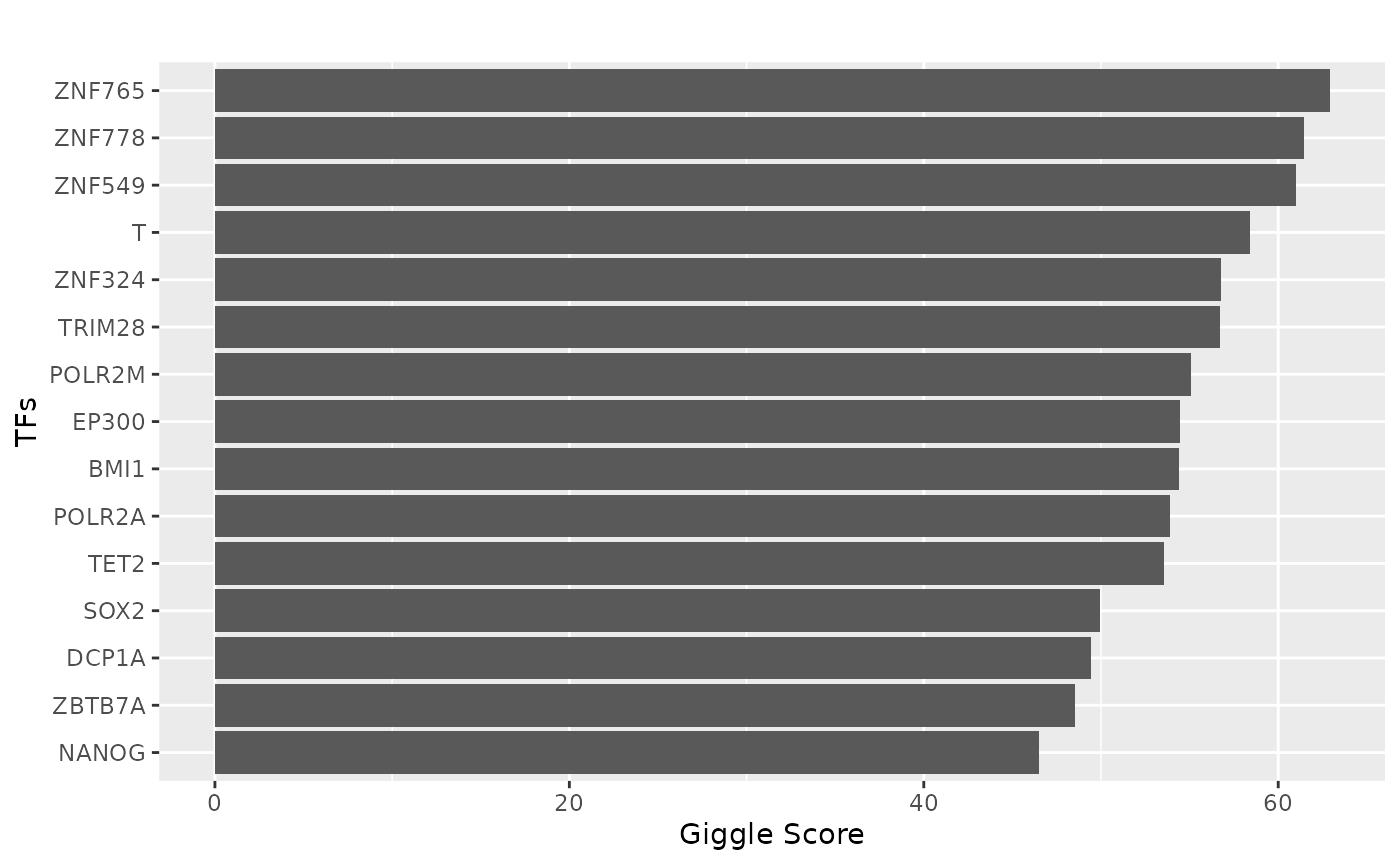
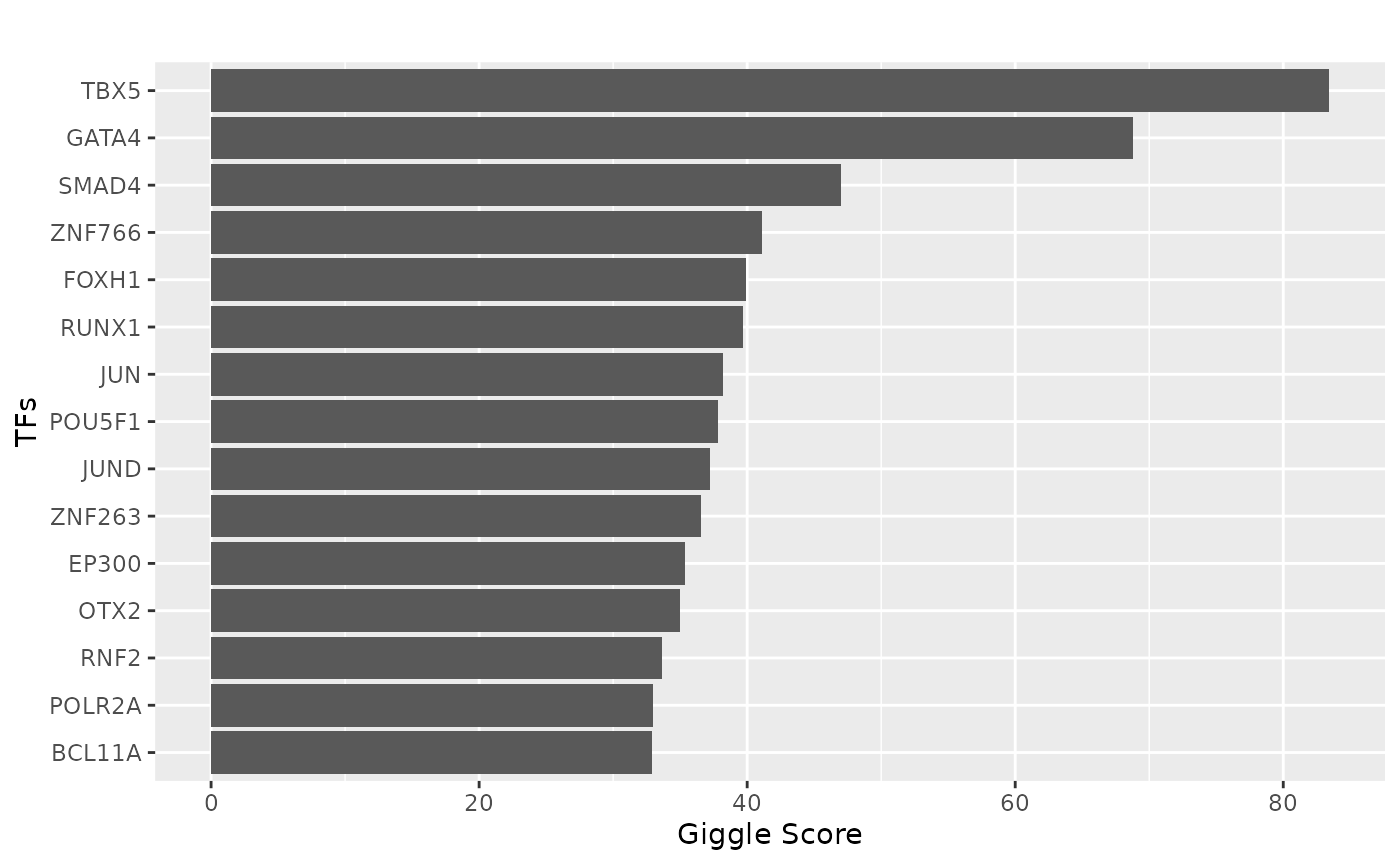
Deploying to gh-pages from @ changxinw/CompassR@00ad917db90771bec8af02808342f0accda522f8 🚀

diff --git a/articles/celltype_example.html b/articles/celltype_example.html
@@ -67,7 +67,8 @@
     
     
 <div class="sourceCode" id="cb1"><pre class="downlit sourceCode r">
-<code class="sourceCode R"><span><span class="kw"><a href="https://rdrr.io/r/base/library.html" class="external-link">library</a></span><span class="op">(</span><span class="va"><a href="https://changxinw.github.io/CompassR/">CompassR</a></span><span class="op">)</span></span>
+<code class="sourceCode R"><span><span class="co">### Load libraries</span></span>
+<span><span class="kw"><a href="https://rdrr.io/r/base/library.html" class="external-link">library</a></span><span class="op">(</span><span class="va"><a href="https://changxinw.github.io/CompassR/">CompassR</a></span><span class="op">)</span></span>
 <span><span class="kw"><a href="https://rdrr.io/r/base/library.html" class="external-link">library</a></span><span class="op">(</span><span class="va"><a href="https://dplyr.tidyverse.org" class="external-link">dplyr</a></span><span class="op">)</span></span>
 <span><span class="co">#&gt; </span></span>
 <span><span class="co">#&gt; Attaching package: 'dplyr'</span></span>
@@ -134,28 +135,35 @@
 <span><span class="co">#&gt; Loading required package: GenomicRanges</span></span>
 <span><span class="co">#&gt; Loading required package: GenomeInfoDb</span></span>
 <span><span class="co">#&gt; Loading required package: grid</span></span></code></pre></div>
+<p>Here, we will explore the celltype specific analysis of the gene HEY2
+in cardiomyocytes of atrium and ventricle.</p>
 <div class="sourceCode" id="cb2"><pre class="downlit sourceCode r">
-<code class="sourceCode R"><span><span class="co">### quick run example</span></span>
-<span><span class="co"># CompassR:::quick_example_compassr("HEY2")</span></span></code></pre></div>
+<code class="sourceCode R"><span><span class="co">### set up the gene and celltype</span></span>
+<span><span class="va">gene</span> <span class="op">=</span> <span class="st">"HEY2"</span></span>
+<span><span class="va">celltype</span> <span class="op">=</span> <span class="st">"Cardiomyocyte"</span></span></code></pre></div>
+<p>We will first query the expression and linkage data for the gene HEY2
+in cardiomyocytes from CompassDB.</p>
 <div class="sourceCode" id="cb3"><pre class="downlit sourceCode r">
-<code class="sourceCode R"><span><span class="va">gene</span> <span class="op">=</span> <span class="st">"HEY2"</span></span>
-<span><span class="va">celltype</span> <span class="op">=</span> <span class="st">"Cardiomyocyte"</span></span>
-<span><span class="va">expr_vec</span> <span class="op">=</span> <span class="fu"><a href="../reference/query_exprssion.html">query_exprssion</a></span><span class="op">(</span><span class="st">"hg38"</span>, <span class="va">gene</span>, celltype <span class="op">=</span> <span class="cn">TRUE</span><span class="op">)</span></span>
+<code class="sourceCode R"><span><span class="va">expr_vec</span> <span class="op">=</span> <span class="fu"><a href="../reference/query_exprssion.html">query_exprssion</a></span><span class="op">(</span><span class="st">"hg38"</span>, <span class="va">gene</span>, celltype <span class="op">=</span> <span class="cn">TRUE</span><span class="op">)</span></span>
 <span><span class="va">link_res</span> <span class="op">=</span> <span class="fu"><a href="../reference/query_linkage.html">query_linkage</a></span><span class="op">(</span><span class="st">"hg38"</span>, <span class="va">gene</span>, celltype <span class="op">=</span> <span class="cn">TRUE</span><span class="op">)</span></span>
 <span></span>
 <span><span class="va">link_df</span> <span class="op">=</span> <span class="va">link_res</span><span class="op">[[</span><span class="st">"linkage"</span><span class="op">]</span><span class="op">]</span></span>
 <span><span class="va">sample_df</span> <span class="op">=</span> <span class="va">link_res</span><span class="op">[[</span><span class="st">"samples"</span><span class="op">]</span><span class="op">]</span></span>
 <span></span>
+<span><span class="co">### filter the table, extract features use for plotting</span></span>
 <span><span class="va">sample_df</span> <span class="op">=</span> <span class="va">sample_df</span><span class="op">[</span><span class="va">sample_df</span><span class="op">$</span><span class="va">bio_source</span> <span class="op"><a href="https://rdrr.io/r/base/match.html" class="external-link">%in%</a></span> <span class="fu"><a href="https://rdrr.io/r/base/c.html" class="external-link">c</a></span><span class="op">(</span><span class="st">"Heart right ventricle"</span>, <span class="st">"Left cardiac atrium"</span><span class="op">)</span>, <span class="op">]</span></span>
 <span><span class="va">sample_df</span> <span class="op">=</span> <span class="va">sample_df</span><span class="op">[</span>, <span class="fu"><a href="https://rdrr.io/r/base/c.html" class="external-link">c</a></span><span class="op">(</span><span class="st">"sample_id"</span>, <span class="st">"bio_source"</span><span class="op">)</span><span class="op">]</span></span>
 <span><span class="fu"><a href="https://rdrr.io/r/base/colnames.html" class="external-link">colnames</a></span><span class="op">(</span><span class="va">sample_df</span><span class="op">)</span> <span class="op">=</span> <span class="fu"><a href="https://rdrr.io/r/base/c.html" class="external-link">c</a></span><span class="op">(</span><span class="st">"Sample"</span>, <span class="st">"Group"</span><span class="op">)</span></span>
 <span></span>
+<span><span class="co">### prepare linkage data</span></span>
 <span><span class="va">link_df</span> <span class="op">=</span> <span class="va">link_df</span><span class="op">[</span><span class="va">link_df</span><span class="op">$</span><span class="va">sample</span> <span class="op"><a href="https://rdrr.io/r/base/match.html" class="external-link">%in%</a></span> <span class="va">sample_df</span><span class="op">$</span><span class="va">Sample</span> <span class="op">&amp;</span> <span class="va">link_df</span><span class="op">$</span><span class="va">celltype</span> <span class="op">==</span> <span class="va">celltype</span>, <span class="op">]</span></span>
 <span><span class="co"># link_df[, c("sample", "gene", "peak", "zscore", "source", "celltype")]</span></span>
 <span></span>
+<span><span class="co">### prepare sample information</span></span>
 <span><span class="va">sample_df</span> <span class="op">=</span> <span class="va">sample_df</span><span class="op">[</span><span class="va">sample_df</span><span class="op">$</span><span class="va">Sample</span> <span class="op"><a href="https://rdrr.io/r/base/match.html" class="external-link">%in%</a></span> <span class="va">link_df</span><span class="op">$</span><span class="va">sample</span>, <span class="op">]</span></span>
 <span><span class="va">sample_df</span> <span class="op">=</span> <span class="va">sample_df</span><span class="op">[</span><span class="fu"><a href="https://rdrr.io/r/base/order.html" class="external-link">order</a></span><span class="op">(</span><span class="va">sample_df</span><span class="op">$</span><span class="va">Group</span><span class="op">)</span>, <span class="op">]</span></span>
 <span></span>
+<span><span class="co">### prepare gene expression</span></span>
 <span><span class="va">expr_df</span> <span class="op">=</span> <span class="fu"><a href="https://rdrr.io/r/base/data.frame.html" class="external-link">data.frame</a></span><span class="op">(</span><span class="fu"><a href="https://rdrr.io/r/base/t.html" class="external-link">t</a></span><span class="op">(</span><span class="va">expr_vec</span><span class="op">)</span><span class="op">[</span><span class="fu"><a href="https://rdrr.io/r/base/paste.html" class="external-link">paste0</a></span><span class="op">(</span><span class="va">sample_df</span><span class="op">$</span><span class="va">Sample</span>, <span class="st">"."</span>, <span class="va">sample_df</span><span class="op">$</span><span class="va">Sample</span>, <span class="st">".RNA."</span>, <span class="va">celltype</span><span class="op">)</span>, <span class="op">]</span><span class="op">)</span></span>
 <span><span class="fu"><a href="https://rdrr.io/r/base/colnames.html" class="external-link">colnames</a></span><span class="op">(</span><span class="va">expr_df</span><span class="op">)</span> <span class="op">=</span> <span class="fu"><a href="https://rdrr.io/r/base/c.html" class="external-link">c</a></span><span class="op">(</span><span class="st">"Gene"</span><span class="op">)</span></span>
 <span><span class="fu"><a href="https://rdrr.io/r/base/colnames.html" class="external-link">rownames</a></span><span class="op">(</span><span class="va">expr_df</span><span class="op">)</span> <span class="op">=</span> <span class="fu"><a href="https://rdrr.io/r/base/lapply.html" class="external-link">sapply</a></span><span class="op">(</span><span class="fu"><a href="https://rdrr.io/r/base/colnames.html" class="external-link">rownames</a></span><span class="op">(</span><span class="va">expr_df</span><span class="op">)</span>, <span class="kw">function</span><span class="op">(</span><span class="va">x</span><span class="op">)</span> <span class="op">{</span><span class="fu"><a href="https://rdrr.io/r/base/unlist.html" class="external-link">unlist</a></span><span class="op">(</span><span class="fu"><a href="https://rdrr.io/r/base/strsplit.html" class="external-link">strsplit</a></span><span class="op">(</span><span class="va">x</span>, <span class="st">"\\."</span><span class="op">)</span><span class="op">)</span><span class="op">[</span><span class="fl">1</span><span class="op">]</span><span class="op">}</span><span class="op">)</span></span>
@@ -164,6 +172,8 @@
 <span><span class="va">link_df</span><span class="op">$</span><span class="va">sample_id</span> <span class="op">=</span> <span class="va">link_df</span><span class="op">$</span><span class="va">sample</span></span>
 <span><span class="fu"><a href="https://rdrr.io/r/base/nrow.html" class="external-link">nrow</a></span><span class="op">(</span><span class="va">link_df</span><span class="op">)</span></span>
 <span><span class="co">#&gt; [1] 29</span></span></code></pre></div>
+<p>We will then plot the expression of the gene in the samples and the
+linkage data.</p>
 <div class="sourceCode" id="cb4"><pre class="downlit sourceCode r">
 <code class="sourceCode R"><span><span class="va">scheme</span> <span class="op">&lt;-</span> <span class="fu"><a href="https://rdrr.io/pkg/Gviz/man/settings.html" class="external-link">getScheme</a></span><span class="op">(</span><span class="op">)</span></span>
 <span><span class="va">scheme</span><span class="op">$</span><span class="va">GdObject</span><span class="op">$</span><span class="va">cex.axis</span> <span class="op">=</span> <span class="fl">1</span></span>
@@ -179,6 +189,8 @@
 <p><img src="celltype_example_files/figure-html/unnamed-chunk-4-1.png" width="700"><img src="celltype_example_files/figure-html/unnamed-chunk-4-2.png" width="700"></p>
 <div class="sourceCode" id="cb5"><pre class="downlit sourceCode r">
 <code class="sourceCode R"><span><span class="co"># dev.off()</span></span></code></pre></div>
+<p>TFBS analysis is performed on the CREs linked to the gene HEY2 in the
+cardiomyocytes.</p>
 <div class="sourceCode" id="cb6"><pre class="downlit sourceCode r">
 <code class="sourceCode R"><span><span class="co">### TFBS Analysis</span></span>
 <span><span class="va">track_plot</span> <span class="op">=</span> <span class="fu"><a href="../reference/plot_genome_track.html">plot_genome_track</a></span><span class="op">(</span><span class="va">link_df</span>, <span class="st">"HEY2"</span>, <span class="st">"hg38"</span>, <span class="va">sample_df</span><span class="op">$</span><span class="va">Sample</span><span class="op">)</span></span></code></pre></div>
@@ -188,17 +200,19 @@
 <span><span class="va">peaks</span><span class="op">$</span><span class="va">name</span> <span class="op">=</span> <span class="fu"><a href="https://rdrr.io/r/base/character.html" class="external-link">as.character</a></span><span class="op">(</span><span class="va">peaks</span><span class="op">$</span><span class="va">name</span><span class="op">)</span></span>
 <span><span class="va">peak_order</span> <span class="op">=</span> <span class="fu"><a href="../reference/make_peak_group.html">make_peak_group</a></span><span class="op">(</span><span class="va">link_df</span>, <span class="va">peaks</span>, <span class="va">sample_df</span><span class="op">)</span></span>
 <span></span>
-<span><span class="va">ht_peak_order</span> <span class="op">=</span> <span class="va">peak_order</span><span class="op">[</span><span class="va">peak_order</span><span class="op">[</span>, <span class="fl">1</span><span class="op">]</span> <span class="op">&gt;=</span> <span class="fl">0.5</span> <span class="op">&amp;</span> <span class="va">peak_order</span><span class="op">[</span>, <span class="fl">2</span><span class="op">]</span><span class="op">&lt;</span><span class="fl">0.5</span>, <span class="op">]</span></span>
+<span><span class="co">### Find CREs linked to HEY2 in ventricle but not in atrium</span></span>
+<span><span class="va">ht_peak_order</span> <span class="op">=</span> <span class="va">peak_order</span><span class="op">[</span><span class="va">peak_order</span><span class="op">[</span>, <span class="st">"Ventricle"</span><span class="op">]</span> <span class="op">&gt;=</span> <span class="fl">0.5</span> <span class="op">&amp;</span> <span class="va">peak_order</span><span class="op">[</span>, <span class="st">"Atrium"</span><span class="op">]</span><span class="op">&lt;</span><span class="fl">0.5</span>, <span class="op">]</span></span>
 <span><span class="va">ht_peaks</span> <span class="op">=</span> <span class="fu"><a href="https://rdrr.io/r/base/colnames.html" class="external-link">rownames</a></span><span class="op">(</span><span class="va">ht_peak_order</span><span class="op">)</span></span>
 <span></span>
 <span><span class="va">peak_vec</span> <span class="op">=</span> <span class="fu"><a href="https://rdrr.io/r/base/grep.html" class="external-link">sub</a></span><span class="op">(</span><span class="st">":"</span>, <span class="st">"-"</span>, <span class="fu"><a href="https://rdrr.io/r/base/character.html" class="external-link">as.character</a></span><span class="op">(</span><span class="va">peaks</span><span class="op">)</span><span class="op">)</span></span>
 <span><span class="va">ht_peaks</span> <span class="op">=</span> <span class="va">peak_vec</span><span class="op">[</span><span class="fu"><a href="https://rdrr.io/r/base/numeric.html" class="external-link">as.numeric</a></span><span class="op">(</span><span class="va">ht_peaks</span><span class="op">)</span><span class="op">]</span></span>
 <span></span>
 <span><span class="va">tf</span> <span class="op">=</span> <span class="fu"><a href="../reference/tf_binding.html">tf_binding</a></span><span class="op">(</span><span class="st">"hg38"</span>, <span class="fu"><a href="https://rdrr.io/r/base/paste.html" class="external-link">paste0</a></span><span class="op">(</span><span class="va">ht_peaks</span>, collapse <span class="op">=</span> <span class="st">"_"</span><span class="op">)</span><span class="op">)</span></span>
-<span> <span class="fu"><a href="../reference/plot_giggle.html">plot_giggle</a></span><span class="op">(</span><span class="va">tf</span><span class="op">)</span></span></code></pre></div>
+<span><span class="fu"><a href="../reference/plot_giggle.html">plot_giggle</a></span><span class="op">(</span><span class="va">tf</span><span class="op">)</span></span></code></pre></div>
 <p><img src="celltype_example_files/figure-html/unnamed-chunk-5-2.png" width="700"></p>
 <div class="sourceCode" id="cb8"><pre class="downlit sourceCode r">
 <code class="sourceCode R"><span><span class="co"># ggsave("Barplot_HEY2_Ventricle_specific_TFs.pdf", p, width = 5, height = 5)</span></span></code></pre></div>
+<p>TFBS analysis results can also be visualized as a wordcloud.</p>
 <div class="sourceCode" id="cb9"><pre class="downlit sourceCode r">
 <code class="sourceCode R"><span><span class="kw"><a href="https://rdrr.io/r/base/library.html" class="external-link">library</a></span><span class="op">(</span><span class="va"><a href="https://github.com/lepennec/ggwordcloud" class="external-link">ggwordcloud</a></span><span class="op">)</span></span>
 <span><span class="co">#&gt; Loading required package: ggplot2</span></span>

diff --git a/articles/integrat_inhouse_data.html b/articles/integrat_inhouse_data.html
@@ -68,12 +68,16 @@
     
 <div class="sourceCode" id="cb1"><pre class="downlit sourceCode r">
 <code class="sourceCode R"><span><span class="kw"><a href="https://rdrr.io/r/base/library.html" class="external-link">library</a></span><span class="op">(</span><span class="va"><a href="https://changxinw.github.io/CompassR/">CompassR</a></span><span class="op">)</span></span></code></pre></div>
+<p>Load the in-house data, expression is a data frame with gene as
+rownames and sample as column names (by AverageExpression of Seurat),
+linkage is a data frame output from the Linkage of Signac package.</p>
 <div class="sourceCode" id="cb2"><pre class="downlit sourceCode r">
 <code class="sourceCode R"><span><span class="va">gene</span> <span class="op">=</span> <span class="st">"EMP2"</span></span>
 <span><span class="va">tissue</span> <span class="op">=</span> <span class="st">"Pancreas"</span></span>
 <span></span>
 <span><span class="va">lexpr_df</span> <span class="op">=</span> <span class="fu"><a href="https://rdrr.io/r/utils/read.table.html" class="external-link">read.csv</a></span><span class="op">(</span><span class="st">"http://compass-db.com/static/test_data/lung_expr_df.csv"</span>, header <span class="op">=</span> <span class="cn">TRUE</span>, row.names <span class="op">=</span> <span class="fl">1</span><span class="op">)</span></span>
 <span><span class="va">llink_df</span> <span class="op">=</span> <span class="fu"><a href="https://rdrr.io/r/utils/read.table.html" class="external-link">read.csv</a></span><span class="op">(</span><span class="st">"http://compass-db.com/static/test_data/lung_linkage_bed.csv"</span>, header <span class="op">=</span> <span class="cn">TRUE</span>, row.names <span class="op">=</span> <span class="fl">1</span><span class="op">)</span></span></code></pre></div>
+<p>Query the expression and linkage data from the CompassDB.</p>
 <div class="sourceCode" id="cb3"><pre class="downlit sourceCode r">
 <code class="sourceCode R"><span><span class="va">expr_vec</span> <span class="op">=</span> <span class="fu"><a href="../reference/query_exprssion.html">query_exprssion</a></span><span class="op">(</span><span class="st">"hg38"</span>, <span class="va">gene</span><span class="op">)</span></span>
 <span><span class="va">link_res</span> <span class="op">=</span> <span class="fu"><a href="../reference/query_linkage.html">query_linkage</a></span><span class="op">(</span><span class="st">"hg38"</span>, <span class="va">gene</span><span class="op">)</span></span>
@@ -89,6 +93,7 @@
 <span><span class="va">expr_df</span> <span class="op">=</span> <span class="fu"><a href="https://rdrr.io/r/base/data.frame.html" class="external-link">data.frame</a></span><span class="op">(</span><span class="fu"><a href="https://rdrr.io/r/base/t.html" class="external-link">t</a></span><span class="op">(</span><span class="va">expr_vec</span><span class="op">)</span><span class="op">[</span><span class="va">sample_df</span><span class="op">$</span><span class="va">Sample</span>, <span class="op">]</span><span class="op">)</span></span>
 <span><span class="fu"><a href="https://rdrr.io/r/base/colnames.html" class="external-link">colnames</a></span><span class="op">(</span><span class="va">expr_df</span><span class="op">)</span> <span class="op">=</span> <span class="fu"><a href="https://rdrr.io/r/base/c.html" class="external-link">c</a></span><span class="op">(</span><span class="st">"Gene"</span><span class="op">)</span></span>
 <span><span class="va">expr_df</span><span class="op">$</span><span class="va">Sample</span> <span class="op">=</span> <span class="fu"><a href="https://rdrr.io/r/base/colnames.html" class="external-link">rownames</a></span><span class="op">(</span><span class="va">expr_df</span><span class="op">)</span></span></code></pre></div>
+<p>Merge the in-house data with the CompassDB data.</p>
 <div class="sourceCode" id="cb4"><pre class="downlit sourceCode r">
 <code class="sourceCode R"><span><span class="fu"><a href="https://rdrr.io/r/base/colnames.html" class="external-link">colnames</a></span><span class="op">(</span><span class="va">llink_df</span><span class="op">)</span> <span class="op">=</span> <span class="fu"><a href="https://rdrr.io/r/base/colnames.html" class="external-link">colnames</a></span><span class="op">(</span><span class="va">link_df</span><span class="op">)</span></span>
 <span><span class="va">link_df</span> <span class="op">=</span> <span class="fu"><a href="https://rdrr.io/r/base/cbind.html" class="external-link">rbind</a></span><span class="op">(</span><span class="va">link_df</span>, <span class="va">llink_df</span><span class="op">)</span></span>
@@ -96,6 +101,8 @@
 <span></span>
 <span><span class="va">sample_df</span> <span class="op">=</span> <span class="fu"><a href="https://rdrr.io/r/base/cbind.html" class="external-link">rbind</a></span><span class="op">(</span><span class="va">sample_df</span>, <span class="fu"><a href="https://rdrr.io/r/base/data.frame.html" class="external-link">data.frame</a></span><span class="op">(</span>Sample <span class="op">=</span> <span class="fu"><a href="https://rdrr.io/r/base/colnames.html" class="external-link">colnames</a></span><span class="op">(</span><span class="va">lexpr_df</span><span class="op">)</span>, Group <span class="op">=</span> <span class="st">"Lung"</span>, row.names <span class="op">=</span> <span class="fu"><a href="https://rdrr.io/r/base/colnames.html" class="external-link">colnames</a></span><span class="op">(</span><span class="va">lexpr_df</span><span class="op">)</span><span class="op">)</span><span class="op">)</span></span>
 <span><span class="va">expr_df</span> <span class="op">=</span> <span class="fu"><a href="https://rdrr.io/r/base/cbind.html" class="external-link">rbind</a></span><span class="op">(</span><span class="va">expr_df</span>, <span class="fu"><a href="https://rdrr.io/r/base/data.frame.html" class="external-link">data.frame</a></span><span class="op">(</span>Gene <span class="op">=</span> <span class="fu"><a href="https://rdrr.io/r/base/unlist.html" class="external-link">unlist</a></span><span class="op">(</span><span class="va">lexpr_df</span><span class="op">[</span><span class="va">gene</span>, <span class="op">]</span><span class="op">)</span>, Sample <span class="op">=</span> <span class="fu"><a href="https://rdrr.io/r/base/colnames.html" class="external-link">colnames</a></span><span class="op">(</span><span class="va">lexpr_df</span><span class="op">)</span>, row.names <span class="op">=</span>  <span class="fu"><a href="https://rdrr.io/r/base/colnames.html" class="external-link">colnames</a></span><span class="op">(</span><span class="va">lexpr_df</span><span class="op">)</span><span class="op">)</span><span class="op">)</span></span></code></pre></div>
+<p>Visualize the linkage and expression information from both in-house
+data and CompassDB.</p>
 <div class="sourceCode" id="cb5"><pre class="downlit sourceCode r">
 <code class="sourceCode R"><span><span class="va">link_df</span><span class="op">$</span><span class="va">sample_id</span> <span class="op">=</span> <span class="va">link_df</span><span class="op">$</span><span class="va">sample</span></span>
 <span><span class="fu"><a href="../reference/genome_track_map.html">genome_track_map</a></span><span class="op">(</span><span class="va">link_df</span>, <span class="va">sample_df</span>, <span class="va">gene</span>, <span class="va">expr_df</span>, assembly <span class="op">=</span> <span class="st">"hg38"</span>, legend.position<span class="op">=</span><span class="st">"left"</span>, t <span class="op">=</span> <span class="op">-</span><span class="fl">20</span>, b <span class="op">=</span> <span class="fl">20</span><span class="op">)</span></span>
@@ -103,6 +110,8 @@
 <span><span class="co">#&gt; Warning in get_plot_component(plot, "guide-box"): Multiple components found;</span></span>
 <span><span class="co">#&gt; returning the first one. To return all, use `return_all = TRUE`.</span></span></code></pre></div>
 <p><img src="integrat_inhouse_data_files/figure-html/unnamed-chunk-5-1.png" width="700"><img src="integrat_inhouse_data_files/figure-html/unnamed-chunk-5-2.png" width="700"></p>
+<p>Find the peaks that are highly correlated with the EMP2 expression in
+Lung tissue.</p>
 <div class="sourceCode" id="cb6"><pre class="downlit sourceCode r">
 <code class="sourceCode R"><span><span class="va">track_plot</span> <span class="op">=</span> <span class="fu"><a href="../reference/plot_genome_track.html">plot_genome_track</a></span><span class="op">(</span><span class="va">link_df</span>, <span class="va">gene</span>, <span class="st">"hg38"</span>, <span class="va">sample_df</span><span class="op">$</span><span class="va">Sample</span><span class="op">)</span></span></code></pre></div>
 <p><img src="integrat_inhouse_data_files/figure-html/unnamed-chunk-6-1.png" width="700"></p>
@@ -111,15 +120,14 @@
 <span><span class="va">peaks</span><span class="op">$</span><span class="va">name</span> <span class="op">=</span> <span class="fu"><a href="https://rdrr.io/r/base/character.html" class="external-link">as.character</a></span><span class="op">(</span><span class="va">peaks</span><span class="op">$</span><span class="va">name</span><span class="op">)</span></span>
 <span><span class="va">peak_order</span> <span class="op">=</span> <span class="fu"><a href="../reference/make_peak_group.html">make_peak_group</a></span><span class="op">(</span><span class="va">link_df</span>, <span class="va">peaks</span>, <span class="va">sample_df</span><span class="op">)</span></span>
 <span></span>
-<span><span class="va">ht_peak_order</span> <span class="op">=</span> <span class="va">peak_order</span><span class="op">[</span><span class="va">peak_order</span><span class="op">[</span>, <span class="fl">1</span><span class="op">]</span> <span class="op">&gt;</span><span class="fl">0.5</span> <span class="op">&amp;</span> <span class="va">peak_order</span><span class="op">[</span>, <span class="fl">2</span><span class="op">]</span><span class="op">&lt;</span><span class="fl">0.5</span>, <span class="op">]</span></span>
+<span><span class="va">ht_peak_order</span> <span class="op">=</span> <span class="va">peak_order</span><span class="op">[</span><span class="va">peak_order</span><span class="op">[</span>, <span class="st">"Lung"</span><span class="op">]</span> <span class="op">&gt;</span><span class="fl">0.5</span> <span class="op">&amp;</span> <span class="va">peak_order</span><span class="op">[</span>, <span class="st">"Pancreas"</span><span class="op">]</span><span class="op">&lt;</span><span class="fl">0.5</span>, <span class="op">]</span></span>
 <span><span class="fu"><a href="https://rdrr.io/r/base/print.html" class="external-link">print</a></span><span class="op">(</span><span class="fu"><a href="https://rdrr.io/r/base/dim.html" class="external-link">dim</a></span><span class="op">(</span><span class="va">ht_peak_order</span><span class="op">)</span><span class="op">)</span></span>
 <span><span class="co">#&gt; [1] 7 2</span></span>
 <span><span class="va">ht_peaks</span> <span class="op">=</span> <span class="fu"><a href="https://rdrr.io/r/base/colnames.html" class="external-link">rownames</a></span><span class="op">(</span><span class="va">ht_peak_order</span><span class="op">)</span></span>
 <span></span>
+<span><span class="co">### TFBS analysis</span></span>
 <span><span class="va">peak_vec</span> <span class="op">=</span> <span class="fu"><a href="https://rdrr.io/r/base/grep.html" class="external-link">sub</a></span><span class="op">(</span><span class="st">":"</span>, <span class="st">"-"</span>, <span class="fu"><a href="https://rdrr.io/r/base/character.html" class="external-link">as.character</a></span><span class="op">(</span><span class="va">peaks</span><span class="op">)</span><span class="op">)</span></span>
 <span><span class="va">ht_peaks</span> <span class="op">=</span> <span class="va">peak_vec</span><span class="op">[</span><span class="fu"><a href="https://rdrr.io/r/base/numeric.html" class="external-link">as.numeric</a></span><span class="op">(</span><span class="va">ht_peaks</span><span class="op">)</span><span class="op">]</span></span>
-<span></span>
-<span></span>
 <span><span class="va">tf</span> <span class="op">=</span> <span class="fu"><a href="../reference/tf_binding.html">tf_binding</a></span><span class="op">(</span><span class="st">"hg38"</span>, <span class="fu"><a href="https://rdrr.io/r/base/paste.html" class="external-link">paste0</a></span><span class="op">(</span><span class="va">ht_peaks</span>, collapse <span class="op">=</span> <span class="st">"_"</span><span class="op">)</span><span class="op">)</span></span>
 <span><span class="va">p</span> <span class="op">=</span> <span class="fu"><a href="../reference/plot_giggle.html">plot_giggle</a></span><span class="op">(</span><span class="va">tf</span><span class="op">)</span></span>
 <span><span class="va">p</span></span></code></pre></div>

diff --git a/articles/tissue_example.html b/articles/tissue_example.html
@@ -68,10 +68,9 @@
     
 <div class="sourceCode" id="cb1"><pre class="downlit sourceCode r">
 <code class="sourceCode R"><span><span class="kw"><a href="https://rdrr.io/r/base/library.html" class="external-link">library</a></span><span class="op">(</span><span class="va"><a href="https://changxinw.github.io/CompassR/">CompassR</a></span><span class="op">)</span></span></code></pre></div>
+<p>Load the data from CompassDB and extract the expression and linkage
+information for the Myh6.</p>
 <div class="sourceCode" id="cb2"><pre class="downlit sourceCode r">
-<code class="sourceCode R"><span><span class="co">### quick run example</span></span>
-<span><span class="co"># CompassR:::quick_example_compassr("Myh6")</span></span></code></pre></div>
-<div class="sourceCode" id="cb3"><pre class="downlit sourceCode r">
 <code class="sourceCode R"><span><span class="co">## Example for Myh6 in mouse heart sample</span></span>
 <span><span class="va">expr_vec</span> <span class="op">=</span> <span class="fu"><a href="../reference/query_exprssion.html">query_exprssion</a></span><span class="op">(</span><span class="st">"mm10"</span>, <span class="st">"Myh6"</span><span class="op">)</span></span>
 <span><span class="va">link_res</span> <span class="op">=</span> <span class="fu"><a href="../reference/query_linkage.html">query_linkage</a></span><span class="op">(</span><span class="st">"mm10"</span>, <span class="st">"Myh6"</span><span class="op">)</span></span>
@@ -89,31 +88,34 @@
 <span><span class="va">expr_df</span> <span class="op">=</span> <span class="fu"><a href="https://rdrr.io/r/base/data.frame.html" class="external-link">data.frame</a></span><span class="op">(</span><span class="fu"><a href="https://rdrr.io/r/base/t.html" class="external-link">t</a></span><span class="op">(</span><span class="va">expr_vec</span><span class="op">)</span><span class="op">[</span><span class="va">sample_df</span><span class="op">$</span><span class="va">Sample</span>, <span class="op">]</span><span class="op">)</span></span>
 <span><span class="fu"><a href="https://rdrr.io/r/base/colnames.html" class="external-link">colnames</a></span><span class="op">(</span><span class="va">expr_df</span><span class="op">)</span> <span class="op">=</span> <span class="fu"><a href="https://rdrr.io/r/base/c.html" class="external-link">c</a></span><span class="op">(</span><span class="st">"Gene"</span><span class="op">)</span></span>
 <span><span class="va">expr_df</span><span class="op">$</span><span class="va">Sample</span> <span class="op">=</span> <span class="fu"><a href="https://rdrr.io/r/base/colnames.html" class="external-link">rownames</a></span><span class="op">(</span><span class="va">expr_df</span><span class="op">)</span></span></code></pre></div>
-<div class="sourceCode" id="cb4"><pre class="downlit sourceCode r">
+<p>Visuzalize the expression and linkage information for the Myh6 gene
+on samples of interest.</p>
+<div class="sourceCode" id="cb3"><pre class="downlit sourceCode r">
 <code class="sourceCode R"><span><span class="va">link_df</span><span class="op">$</span><span class="va">sample_id</span> <span class="op">=</span> <span class="va">link_df</span><span class="op">$</span><span class="va">sample</span></span>
 <span><span class="fu"><a href="../reference/genome_track_map.html">genome_track_map</a></span><span class="op">(</span><span class="va">link_df</span>, <span class="va">sample_df</span>, <span class="st">"Myh6"</span>, <span class="va">expr_df</span>, assembly <span class="op">=</span> <span class="st">"mm10"</span>, legend.position<span class="op">=</span><span class="st">"left"</span>, t <span class="op">=</span> <span class="op">-</span><span class="fl">20</span>, b <span class="op">=</span> <span class="fl">20</span><span class="op">)</span></span>
 <span><span class="co">#&gt; the plot was flipped and the y limits will be applied to x-axis</span></span>
 <span><span class="co">#&gt; Warning in get_plot_component(plot, "guide-box"): Multiple components found;</span></span>
 <span><span class="co">#&gt; returning the first one. To return all, use `return_all = TRUE`.</span></span></code></pre></div>
-<p><img src="tissue_example_files/figure-html/unnamed-chunk-4-1.png" width="700"><img src="tissue_example_files/figure-html/unnamed-chunk-4-2.png" width="700"></p>
-<div class="sourceCode" id="cb5"><pre class="downlit sourceCode r">
+<p><img src="tissue_example_files/figure-html/unnamed-chunk-3-1.png" width="700"><img src="tissue_example_files/figure-html/unnamed-chunk-3-2.png" width="700"></p>
+<p>Extract the CREs linked to Myh6 expression in heart and plot the TF
+binding information.</p>
+<div class="sourceCode" id="cb4"><pre class="downlit sourceCode r">
 <code class="sourceCode R"><span><span class="va">track_plot</span> <span class="op">=</span> <span class="fu"><a href="../reference/plot_genome_track.html">plot_genome_track</a></span><span class="op">(</span><span class="va">link_df</span>, <span class="st">"Myh6"</span>, <span class="st">"mm10"</span>, <span class="va">sample_df</span><span class="op">$</span><span class="va">Sample</span><span class="op">)</span></span></code></pre></div>
-<p><img src="tissue_example_files/figure-html/unnamed-chunk-5-1.png" width="700"></p>
-<div class="sourceCode" id="cb6"><pre class="downlit sourceCode r">
+<p><img src="tissue_example_files/figure-html/unnamed-chunk-4-1.png" width="700"></p>
+<div class="sourceCode" id="cb5"><pre class="downlit sourceCode r">
 <code class="sourceCode R"><span><span class="va">peaks</span> <span class="op">=</span> <span class="va">track_plot</span><span class="op">[[</span><span class="fu"><a href="https://rdrr.io/r/base/length.html" class="external-link">length</a></span><span class="op">(</span><span class="va">track_plot</span><span class="op">)</span><span class="op">]</span><span class="op">]</span></span>
 <span><span class="va">peaks</span><span class="op">$</span><span class="va">name</span> <span class="op">=</span> <span class="fu"><a href="https://rdrr.io/r/base/character.html" class="external-link">as.character</a></span><span class="op">(</span><span class="va">peaks</span><span class="op">$</span><span class="va">name</span><span class="op">)</span></span>
 <span><span class="va">peak_order</span> <span class="op">=</span> <span class="fu"><a href="../reference/make_peak_group.html">make_peak_group</a></span><span class="op">(</span><span class="va">link_df</span>, <span class="va">peaks</span>, <span class="va">sample_df</span><span class="op">)</span></span>
 <span></span>
-<span><span class="va">ht_peak_order</span> <span class="op">=</span> <span class="va">peak_order</span><span class="op">[</span><span class="va">peak_order</span><span class="op">[</span>, <span class="fl">2</span><span class="op">]</span> <span class="op">&gt;=</span> <span class="fl">0.5</span> <span class="op">&amp;</span> <span class="va">peak_order</span><span class="op">[</span>, <span class="fl">1</span><span class="op">]</span><span class="op">&lt;</span><span class="fl">0.5</span> <span class="op">&amp;</span> <span class="va">peak_order</span><span class="op">[</span>, <span class="fl">3</span><span class="op">]</span><span class="op">&lt;</span><span class="fl">0.5</span> <span class="op">&amp;</span> <span class="va">peak_order</span><span class="op">[</span>, <span class="fl">4</span><span class="op">]</span><span class="op">&lt;</span><span class="fl">0.5</span>, <span class="op">]</span></span>
+<span><span class="va">ht_peak_order</span> <span class="op">=</span> <span class="va">peak_order</span><span class="op">[</span><span class="va">peak_order</span><span class="op">[</span>, <span class="st">"Heart"</span><span class="op">]</span> <span class="op">&gt;=</span> <span class="fl">0.5</span> <span class="op">&amp;</span> <span class="va">peak_order</span><span class="op">[</span>, <span class="st">"Gastrocnemius"</span><span class="op">]</span><span class="op">&lt;</span><span class="fl">0.5</span> <span class="op">&amp;</span> <span class="va">peak_order</span><span class="op">[</span>, <span class="st">"Layer of hippocampus"</span><span class="op">]</span><span class="op">&lt;</span><span class="fl">0.5</span> <span class="op">&amp;</span> <span class="va">peak_order</span><span class="op">[</span>, <span class="st">"Left cerebral cortex"</span><span class="op">]</span><span class="op">&lt;</span><span class="fl">0.5</span>, <span class="op">]</span></span>
 <span><span class="va">ht_peaks</span> <span class="op">=</span> <span class="fu"><a href="https://rdrr.io/r/base/colnames.html" class="external-link">rownames</a></span><span class="op">(</span><span class="va">ht_peak_order</span><span class="op">)</span></span>
 <span></span>
 <span><span class="va">peak_vec</span> <span class="op">=</span> <span class="fu"><a href="https://rdrr.io/r/base/grep.html" class="external-link">sub</a></span><span class="op">(</span><span class="st">":"</span>, <span class="st">"-"</span>, <span class="fu"><a href="https://rdrr.io/r/base/character.html" class="external-link">as.character</a></span><span class="op">(</span><span class="va">peaks</span><span class="op">)</span><span class="op">)</span></span>
 <span><span class="va">ht_peaks</span> <span class="op">=</span> <span class="va">peak_vec</span><span class="op">[</span><span class="fu"><a href="https://rdrr.io/r/base/numeric.html" class="external-link">as.numeric</a></span><span class="op">(</span><span class="va">ht_peaks</span><span class="op">)</span><span class="op">]</span></span>
 <span></span>
-<span></span>
 <span><span class="va">tf</span> <span class="op">=</span> <span class="fu"><a href="../reference/tf_binding.html">tf_binding</a></span><span class="op">(</span><span class="st">"mm10"</span>, <span class="fu"><a href="https://rdrr.io/r/base/paste.html" class="external-link">paste0</a></span><span class="op">(</span><span class="va">ht_peaks</span>, collapse <span class="op">=</span> <span class="st">"_"</span><span class="op">)</span><span class="op">)</span></span>
 <span><span class="fu"><a href="../reference/plot_giggle.html">plot_giggle</a></span><span class="op">(</span><span class="va">tf</span><span class="op">)</span></span></code></pre></div>
-<p><img src="tissue_example_files/figure-html/unnamed-chunk-5-2.png" width="700"></p>
+<p><img src="tissue_example_files/figure-html/unnamed-chunk-4-2.png" width="700"></p>
   </main>
 </div>
 

diff --git a/articles/sample_example.html b/articles/sample_example.html
@@ -79,13 +79,13 @@
 <span><span class="co">#&gt; The following objects are masked from 'package:base':</span></span>
 <span><span class="co">#&gt; </span></span>
 <span><span class="co">#&gt;     intersect, t</span></span>
-<span><span class="kw"><a href="https://rdrr.io/r/base/library.html" class="external-link">library</a></span><span class="op">(</span><span class="va"><a href="https://github.com/stuart-lab/signac" class="external-link">Signac</a></span><span class="op">)</span></span></code></pre></div>
+<span><span class="kw"><a href="https://rdrr.io/r/base/library.html" class="external-link">library</a></span><span class="op">(</span><span class="va"><a href="https://github.com/stuart-lab/signac" class="external-link">Signac</a></span><span class="op">)</span></span>
+<span><span class="co">### Adjust the timeout to 10 minutes due to file size</span></span>
+<span><span class="fu"><a href="https://rdrr.io/r/base/options.html" class="external-link">options</a></span><span class="op">(</span>timeout<span class="op">=</span><span class="fl">600</span><span class="op">)</span></span></code></pre></div>
+<p>Load the Seurat object and update the path to the fragments file
+online.</p>
 <div class="sourceCode" id="cb2"><pre class="downlit sourceCode r">
-<code class="sourceCode R"><span><span class="co">### quick run example</span></span>
-<span><span class="co"># CompassR:::quick_example_compassr("CD79B")</span></span></code></pre></div>
-<div class="sourceCode" id="cb3"><pre class="downlit sourceCode r">
 <code class="sourceCode R"><span><span class="co">### Sample level analysis</span></span>
-<span><span class="fu"><a href="https://rdrr.io/r/base/options.html" class="external-link">options</a></span><span class="op">(</span>timeout<span class="op">=</span><span class="fl">600</span><span class="op">)</span></span>
 <span><span class="va">obj</span> <span class="op">=</span> <span class="fu"><a href="https://rdrr.io/r/base/readRDS.html" class="external-link">readRDS</a></span><span class="op">(</span><span class="fu"><a href="https://rdrr.io/r/base/connections.html" class="external-link">url</a></span><span class="op">(</span><span class="st">"https://g-297ec7.1d0d8d.03c0.data.globus.org/seurat_object/GSM5065525_GSM5065524.rds"</span>, <span class="st">"rb"</span><span class="op">)</span><span class="op">)</span></span>
 <span><span class="fu"><a href="https://mojaveazure.github.io/seurat-object/reference/DefaultAssay.html" class="external-link">DefaultAssay</a></span><span class="op">(</span><span class="va">obj</span><span class="op">)</span> <span class="op">=</span> <span class="st">"ATAC"</span></span>
 <span><span class="va">frag</span> <span class="op">=</span> <span class="fu"><a href="https://stuartlab.org/signac/reference/Fragments.html" class="external-link">Fragments</a></span><span class="op">(</span><span class="va">obj</span><span class="op">)</span><span class="op">[[</span><span class="fl">1</span><span class="op">]</span><span class="op">]</span></span>
@@ -95,7 +95,8 @@
 <span><span class="co">#&gt; : Replacing local file path with a remote file</span></span>
 <span><span class="co">#&gt; Fragment file is on a remote server</span></span>
 <span><span class="va">obj</span><span class="op">@</span><span class="va">assays</span><span class="op">$</span><span class="va">ATAC</span><span class="op">@</span><span class="va">fragments</span><span class="op">[[</span><span class="fl">1</span><span class="op">]</span><span class="op">]</span> <span class="op">=</span> <span class="va">frag</span></span></code></pre></div>
-<div class="sourceCode" id="cb4"><pre class="downlit sourceCode r">
+<p>Get the coverage plot for the gene of interest.</p>
+<div class="sourceCode" id="cb3"><pre class="downlit sourceCode r">
 <code class="sourceCode R"><span><span class="va">gene</span> <span class="op">=</span> <span class="st">"CD79B"</span></span>
 <span><span class="va">p</span> <span class="op">=</span> <span class="fu"><a href="https://stuartlab.org/signac/reference/CoveragePlot.html" class="external-link">CoveragePlot</a></span><span class="op">(</span></span>
 <span>  object <span class="op">=</span> <span class="va">obj</span>,</span>
@@ -112,8 +113,10 @@
 <span><span class="fu"><a href="https://rdrr.io/r/base/print.html" class="external-link">print</a></span><span class="op">(</span><span class="va">p</span><span class="op">)</span></span>
 <span><span class="co">#&gt; Warning: Removed 107 rows containing missing values or values outside the scale range</span></span>
 <span><span class="co">#&gt; (`geom_segment()`).</span></span></code></pre></div>
-<p><img src="sample_example_files/figure-html/unnamed-chunk-4-1.png" width="700"></p>
-<div class="sourceCode" id="cb5"><pre class="downlit sourceCode r">
+<p><img src="sample_example_files/figure-html/unnamed-chunk-3-1.png" width="700"></p>
+<p>Extract the links for the gene of interest and plot the TF binding
+sites.</p>
+<div class="sourceCode" id="cb4"><pre class="downlit sourceCode r">
 <code class="sourceCode R"><span><span class="va">link_df_obj</span> <span class="op">=</span> <span class="fu"><a href="https://stuartlab.org/signac/reference/Links.html" class="external-link">Links</a></span><span class="op">(</span><span class="va">obj</span><span class="op">)</span></span>
 <span><span class="va">gene_link</span> <span class="op">=</span> <span class="va">link_df_obj</span><span class="op">[</span><span class="va">link_df_obj</span><span class="op">$</span><span class="va">gene</span> <span class="op">==</span> <span class="st">"CD79B"</span><span class="op">]</span></span>
 <span></span>
@@ -127,7 +130,7 @@
 <span><span class="va">tf</span> <span class="op">=</span> <span class="fu"><a href="../reference/tf_binding.html">tf_binding</a></span><span class="op">(</span><span class="st">"hg38"</span>, <span class="fu"><a href="https://rdrr.io/r/base/paste.html" class="external-link">paste0</a></span><span class="op">(</span><span class="va">peak_vec</span>, collapse <span class="op">=</span> <span class="st">"_"</span><span class="op">)</span><span class="op">)</span></span>
 <span><span class="va">p</span> <span class="op">=</span> <span class="fu"><a href="../reference/plot_giggle.html">plot_giggle</a></span><span class="op">(</span><span class="va">tf</span><span class="op">)</span></span>
 <span><span class="fu"><a href="https://rdrr.io/r/base/print.html" class="external-link">print</a></span><span class="op">(</span><span class="va">p</span><span class="op">)</span></span></code></pre></div>
-<p><img src="sample_example_files/figure-html/unnamed-chunk-5-1.png" width="700"></p>
+<p><img src="sample_example_files/figure-html/unnamed-chunk-4-1.png" width="700"></p>
   </main>
 </div>
 
